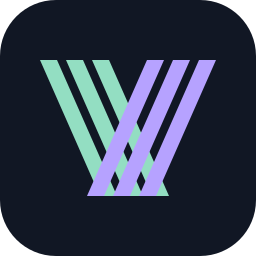
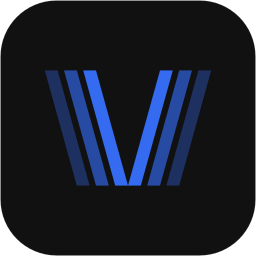
docs: quieter identity in the T3 Code palette
Use T3 Code's neutral surfaces with a single blue accent. The README opens
with the icon, title and one line instead of a banner, and the chart
comes in light and dark variants without gradients or callouts. The two
lane groups of the mark now sit apart on the x axis, so the inner lanes
meet at one point instead of crossing.

diff --git a/README.md b/README.md
@@ -1,16 +1,17 @@
 <p align="center">
-  <img src="docs/assets/vanadium-header.svg" alt="Vanadium — Parallel server ticking" width="640">
+  <img src="docs/assets/vanadium.svg" alt="" width="96">
 </p>
 
+<h1 align="center">Vanadium</h1>
+
 <p align="center">
-  <strong>Put more of your CPU to work.</strong><br>
-  A Fabric mod that spreads Minecraft server simulation across cores.
+  Parallel server ticking for Minecraft. Put more of your CPU to work.
 </p>
 
 <p align="center">
   <a href="https://github.com/synsejse/Vanadium/actions/workflows/gradle.yml"><img src="https://img.shields.io/github/actions/workflow/status/synsejse/Vanadium/gradle.yml?label=build&style=flat-square" alt="Build status"></a>
-  <img src="https://img.shields.io/badge/Minecraft-26.3-93dec2?style=flat-square" alt="Minecraft 26.3">
-  <a href="LICENSE"><img src="https://img.shields.io/badge/license-GPLv3-b6a2ff?style=flat-square" alt="GPLv3 license"></a>
+  <img src="https://img.shields.io/badge/Minecraft-26.3-3f3f46?style=flat-square" alt="Minecraft 26.3">
+  <a href="LICENSE"><img src="https://img.shields.io/badge/license-GPLv3-3f3f46?style=flat-square" alt="GPLv3 license"></a>
 </p>
 
 Vanadium parallelizes entity, block-entity, scheduled and chunk ticking, natural spawning,
@@ -20,12 +21,12 @@ It also optimizes chunk lookups, nearby-player indexing and packet preparation.
 
 ### Performance
 
-![Historical Minecraft 26.2 results: 7.6 TPS with parallel ticking off and 81.3 TPS on at 32 workers. A separate worker sweep peaks at 76.3 TPS at 36 workers, falling to 68.5 at 48.](docs/assets/performance.svg)
+<picture>
+  <source media="(prefers-color-scheme: dark)" srcset="docs/assets/performance-dark.svg">
+  <img src="docs/assets/performance-light.svg" alt="Historical Minecraft 26.2 results: 7.6 TPS with parallel ticking off and 81.3 TPS on at 32 workers. A separate worker sweep peaks at 76.3 TPS at 36 workers, falling to 68.5 at 48.">
+</picture>
 
-**Historical 26.2 measurements, not a 26.3 performance claim.** Dual Xeon E5-2699 v3 VM,
-4,096 AI zombies, 1,024 loaded chunks, no players. Uncapped throughput; higher is better.
-“Off” keeps Vanadium's structural changes installed. The comparison and scaling sweep
-are separate experiments. [Data, method and limits →](docs/PERFORMANCE.md)
+Historical Minecraft 26.2 measurements, not a claim about 26.3. [Data, method and limits →](docs/PERFORMANCE.md)
 
 ### Getting started
 

diff --git a/docs/assets/README.md b/docs/assets/README.md
@@ -1,12 +1,20 @@
 # Vanadium identity
 
-The mark is a V woven from three mint and three violet lanes: parallel work converging
-at a stage boundary. The wordmark and charts share the same palette:
-ink `#111724`, mint `#93dec2`, violet `#b6a2ff`, text `#f0f3fa`.
+The mark is a V of two lane groups, three parallel lanes each, meeting at one point: parallel
+work converging at a stage boundary. Colors follow the T3 Code theme: neutral surfaces with a
+single blue accent.
 
-- `vanadium.svg`: editable 256 × 256 icon source.
-- `vanadium-header.svg`: self-contained README wordmark; no remote fonts or images.
-- `performance.svg`: editable historical chart, with accessible title/description.
+| Token | Dark | Light |
+|---|---|---|
+| Surface | `#0a0a0a` (icon `#111`) | `#ffffff` |
+| Border | white at 8% | `#e4e4e7` |
+| Text | `#f1f3f7` | `#18181b` |
+| Muted | `#a3a3a3` | `#71717a` |
+| Accent | `#346bf1` | `#1b4ed8` |
+
+- `vanadium.svg`: editable 256 × 256 icon source; the README uses it directly.
+- `performance-dark.svg`, `performance-light.svg`: the historical chart for each GitHub theme,
+  with accessible title and description.
 - `performance.csv`: plotted values; provenance is in [performance notes](../PERFORMANCE.md).
 
 The runtime PNG is rendered from `vanadium.svg` at 256 × 256. With librsvg available:
@@ -15,5 +23,5 @@ The runtime PNG is rendered from `vanadium.svg` at 256 × 256. With librsvg avai
 rsvg-convert -w 256 -h 256 docs/assets/vanadium.svg -o src/main/resources/assets/vanadium/vanadium.png
 ```
 
-Keep the mark paths in the header consistent with the icon source when editing.
+When editing a chart, change both variants and keep them in step with `performance.csv`.
 These original project assets use the repository's [GPLv3 license](../../LICENSE).

diff --git a/docs/PERFORMANCE.md b/docs/PERFORMANCE.md
@@ -1,6 +1,6 @@
 # Performance evidence
 
-The [README figure](assets/performance.svg) visualizes existing **Minecraft 26.2**
+The README figure ([light](assets/performance-light.svg), [dark](assets/performance-dark.svg)) visualizes existing **Minecraft 26.2**
 measurements from 2026-11-08. It does not present the 26.3 port as benchmarked.
 Its editable source is SVG; exact plotted values are in [performance.csv](assets/performance.csv).
 Only straight segments join measurements; there is no smoothing or extrapolation.
